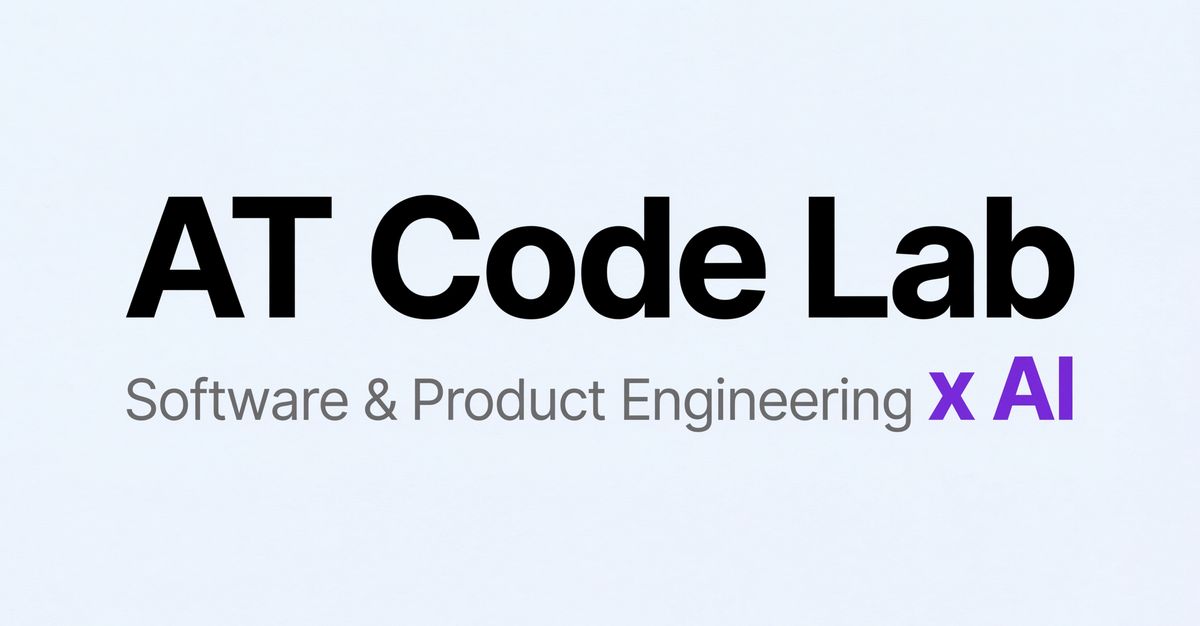
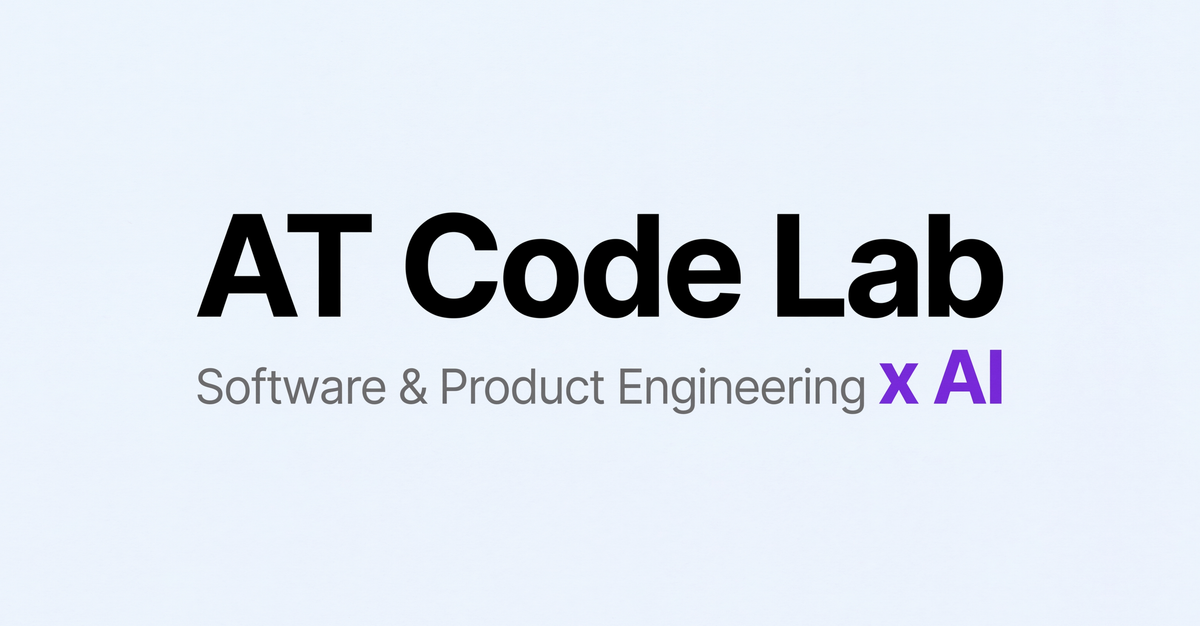
:lipstick: add padding around the share image text

Changed region(s): [[0.0925, 0.3035, 0.8942, 0.516], [0.0925, 0.5463, 0.8942, 0.6981]]

diff --git a/CLAUDE.md b/CLAUDE.md
@@ -60,8 +60,12 @@ pnpm test:all            # Unit + E2E
   `openGraph.site_name` and the footer copyright keep "Aurélien Tondoux". Guarded by `e2e/i18n.spec.ts`.
 - The link-preview image (`og:image`) is `src/assets/images/og-default.png`, set in `config.yaml` `metadata.openGraph.images`
   and used by every page (none overrides it). It is the LinkedIn banner (`brand/AT_code_lab_banner.png`) cropped with
-  Sharp around its text (the banner keeps the left side free for the LinkedIn photo, so the crop is the widest one
-  centered on the text block, 3554×1854 from x 1950, y 617, no added pixels) and resized to 1200×626, because `adaptOpenGraphImages` (`src/utils/images.ts`) always re-encodes it to a 1200×626 JPG
+  Sharp around its text (the banner keeps the left side free for the LinkedIn photo, so the crop is centered on the
+  text block) and resized to 1200×626. The crop is 4181×2181 from x 1637, y 454: the first crop (3554×1854 from x 1950,
+  y 617, ~10% margin per side) scaled by 1/0.85 around the same center, so the text keeps ~16% margin per side
+  (197px of 1200) that preview cards' rounded corners and edge trims don't eat. It
+  overflows the banner's right edge, so the banner is first extended right by 314px with `extendWith: 'mirror'`
+  (that strip is plain background, so the gradient and grain continue without a seam). The size is 1200×626 because `adaptOpenGraphImages` (`src/utils/images.ts`) always re-encodes it to a 1200×626 JPG
   and would crop any other ratio a second time. The template's `default.png` (an AstroWind screenshot) was removed.
   There is no `twitter:image` tag: X falls back to `og:image`, and `twitter:card` is `summary_large_image`.
   Guarded by `e2e/share-image.spec.ts`. Social sites cache previews, so refresh them with LinkedIn Post Inspector.
